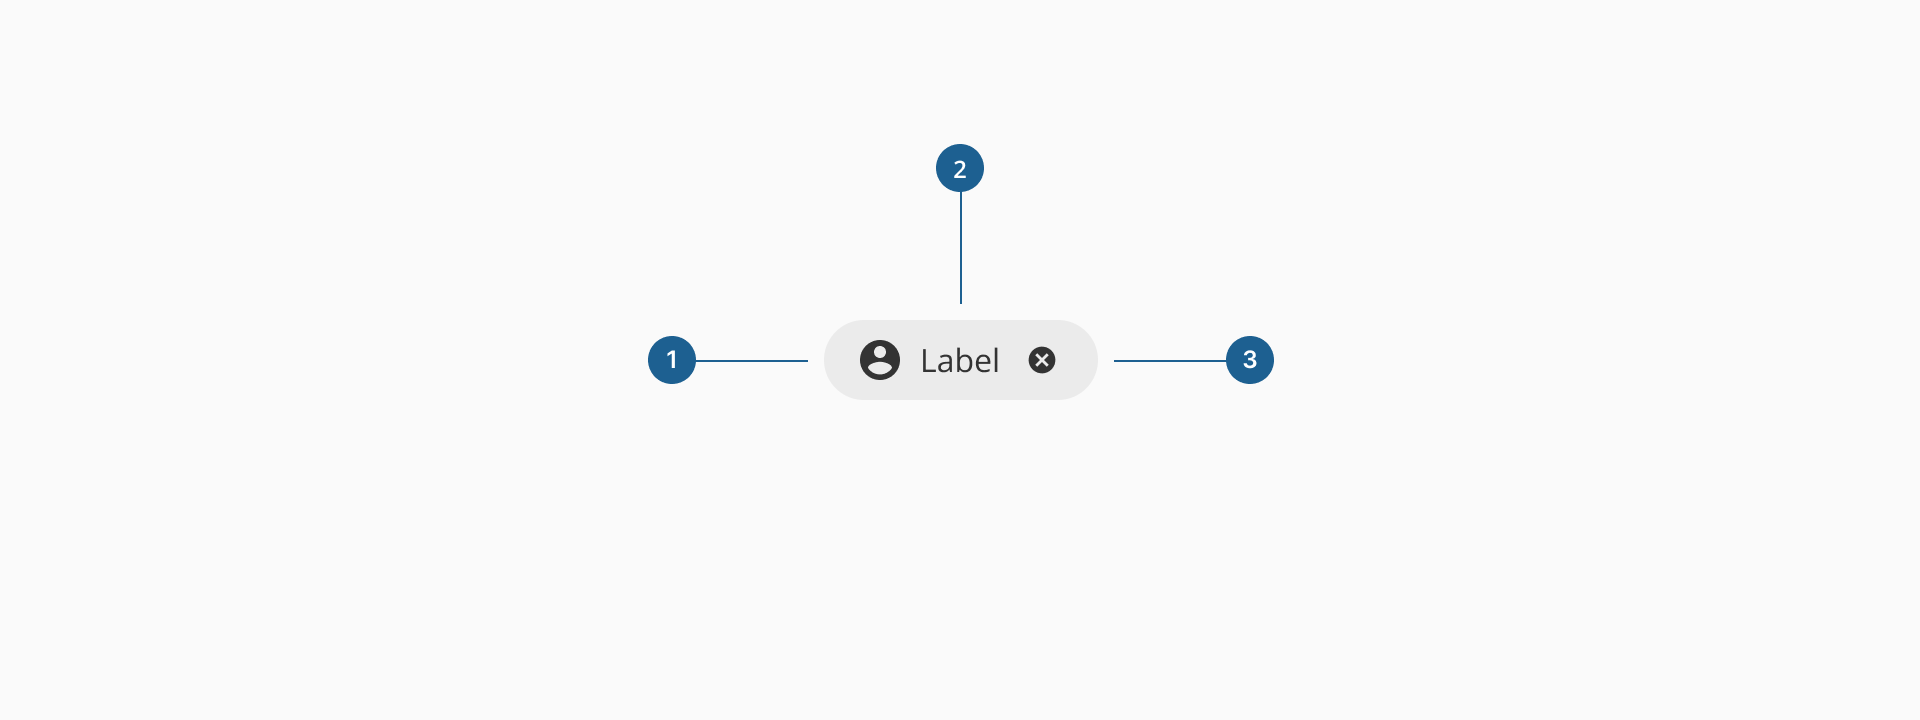
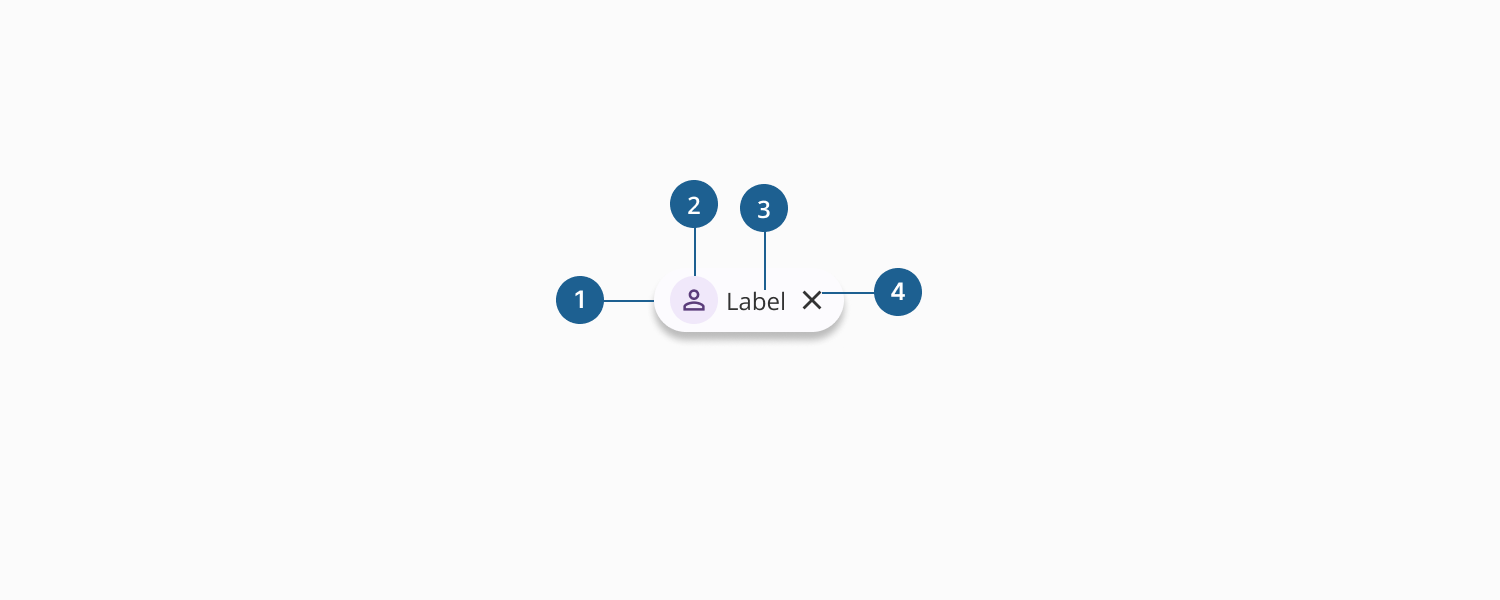
-Update Overview Chip documentation based on Notion file -Update Code Chip documentation

Changed region(s): [[0.3373, 0.45, 0.6747, 0.57], [0.4293, 0.3, 0.552, 0.39], [0.4907, 0.18, 0.5213, 0.27]]

diff --git a/apps/website/screens/components/chip/overview/ChipOverviewPage.tsx b/apps/website/screens/components/chip/overview/ChipOverviewPage.tsx
@@ -2,9 +2,10 @@ import { DxcBulletedList, DxcFlex, DxcLink, DxcParagraph, DxcTable } from "@dxc-
 import QuickNavContainer from "@/common/QuickNavContainer";
 import DocFooter from "@/common/DocFooter";
 import anatomy from "./images/chip-anatomy.png";
-import Example from "@/common/example/Example";
-import categorization from "./examples/categorization";
-import filter from "./examples/filter";
+import categorization from "./images/chip-categorization.png";
+import searchFilter from "./images/chip-faceted-search-filter.png";
+import states from "./images/chip-states.png";
+import sizeVariants from "./images/chip-size.png";
 import spacing from "./images/chip-spacing.png";
 import Image from "@/common/Image";
 import Link from "next/link";
@@ -13,12 +14,18 @@ const sections = [
   {
     title: "Introduction",
     content: (
-      <DxcParagraph>
-        Chips are versatile components that allow users to display and manage information in a compact format. They are
-        commonly used to represent selected options, tags, filters, or interactive elements within an interface. Their
-        lightweight and flexible design makes them ideal for enhancing user experience by enabling quick and organized
-        interactions.
-      </DxcParagraph>
+      <>
+        <DxcParagraph>
+          Chips are versatile UI components used to display and manage information in a compact, scannable format. They
+          commonly represent selected options, tags, filters, or contextual actions within an interface.
+        </DxcParagraph>
+        <DxcParagraph>
+          Chip component supports multiple sizes, optional leading elements (icon or avatar), and an optional action
+          icon, while maintaining a consistent structure and interaction model. Clear states, keyboard accessibility,
+          and controlled label length ensure the component remains lightweight, reusable, and adaptable across products
+          such as filters, forms, and the chatbot experience.
+        </DxcParagraph>
+      </>
     ),
   },
   {
@@ -28,72 +35,20 @@ const sections = [
         <Image src={anatomy} alt="Chip anatomy" />
         <DxcBulletedList type="number">
           <DxcBulletedList.Item>
-            <strong>Container</strong> <em>(Required)</em>:
-            <DxcBulletedList>
-              <DxcBulletedList.Item>The outer wrapper of the chip.</DxcBulletedList.Item>
-              <DxcBulletedList.Item>
-                Defines:
-                <DxcBulletedList>
-                  <DxcBulletedList.Item>Overall size (Small / Medium / Large)</DxcBulletedList.Item>
-                  <DxcBulletedList.Item>
-                    Interactive area (default, focus, hover, active and disabled)
-                  </DxcBulletedList.Item>
-                </DxcBulletedList>
-              </DxcBulletedList.Item>
-              <DxcBulletedList.Item>
-                Acts as the main clickable surface when no action icon is present.
-              </DxcBulletedList.Item>
-            </DxcBulletedList>
+            <strong>Container</strong>: the structural wrapper that holds the chip’s content and defines its visual
+            boundaries and spacing. It establishes the chip’s size and layout while remaining informational only.
           </DxcBulletedList.Item>
           <DxcBulletedList.Item>
-            <strong>Left Element</strong> <em>(Optional)</em>: Supported types:
-            <DxcBulletedList>
-              <DxcBulletedList.Item>
-                <strong>Icon</strong>
-                <DxcBulletedList>
-                  <DxcBulletedList.Item>Allowed in Small, Medium and Large.</DxcBulletedList.Item>
-                  <DxcBulletedList.Item>Used for status, category, or action hint.</DxcBulletedList.Item>
-                </DxcBulletedList>
-              </DxcBulletedList.Item>
-
-              <DxcBulletedList.Item>
-                <strong>Avatar</strong>
-                <DxcBulletedList>
-                  <DxcBulletedList.Item>Allowed only in Medium and Large.</DxcBulletedList.Item>
-                  <DxcBulletedList.Item>Represents people, entities or profiles.</DxcBulletedList.Item>
-                </DxcBulletedList>
-              </DxcBulletedList.Item>
-            </DxcBulletedList>
-            Small size supports icons only to preserve compactness and clarity.
+            <strong>Left Element</strong> <em>(Optional)</em>: a leading visual element that adds contextual meaning to
+            the chip and helps users quickly recognize its purpose.
           </DxcBulletedList.Item>
           <DxcBulletedList.Item>
-            <strong>Label</strong> <em>(Required)</em>
-            <DxcBulletedList>
-              <DxcBulletedList.Item>Text content displayed inside the chip</DxcBulletedList.Item>
-              <DxcBulletedList.Item>
-                Characteristics:
-                <DxcBulletedList>
-                  <DxcBulletedList.Item>Short, concise text</DxcBulletedList.Item>
-                  <DxcBulletedList.Item>Single-line only(no-wrapping)</DxcBulletedList.Item>
-                  <DxcBulletedList.Item>Truncated when exceeding maximum width</DxcBulletedList.Item>
-                  <DxcBulletedList.Item>Tooltip appears on hover/focus when truncated</DxcBulletedList.Item>
-                </DxcBulletedList>
-              </DxcBulletedList.Item>
-              <DxcBulletedList.Item>Serves as the primary identifier of the chip.</DxcBulletedList.Item>
-            </DxcBulletedList>
+            <strong>Label</strong>: the text content inside the chip that identifies and describes the associated item
+            or value.
           </DxcBulletedList.Item>
           <DxcBulletedList.Item>
-            <strong>Action Icon</strong> <em>(Optional) -</em> Appears at the end of the chip. Common usage:
-            <DxcBulletedList>
-              <DxcBulletedList.Item>Remove / clear action (✕)</DxcBulletedList.Item>
-              <DxcBulletedList.Item>Secondary inline action (if applicable)</DxcBulletedList.Item>
-            </DxcBulletedList>
-            Behavior:
-            <DxcBulletedList>
-              <DxcBulletedList.Item>Has its own interaction target</DxcBulletedList.Item>
-              <DxcBulletedList.Item>Does not trigger the main chip action</DxcBulletedList.Item>
-              <DxcBulletedList.Item>Disabled when the chip is disabled</DxcBulletedList.Item>
-            </DxcBulletedList>
+            <strong>Action Icon</strong> <em>(Optional)</em>: a trailing control that enables direct interaction with
+            the chip without affecting the container itself.
           </DxcBulletedList.Item>
         </DxcBulletedList>
       </>
@@ -107,11 +62,17 @@ const sections = [
         content: (
           <>
             <DxcParagraph>
-              Chips are commonly used to organize content by grouping related topics, products, or subjects. They often
-              serve as a summary of the page's content. When using chips for categorization, ensure that they are
-              relevant to the displayed information to maintain clarity and usability.
+              Chips are used to organize and summarize related information such as topics, statuses, or attributes in a
+              compact and scannable way. They help users quickly understand key metadata without overwhelming the
+              interface.
             </DxcParagraph>
-            <Example example={categorization} />
+            <DxcParagraph>
+              With the redesigned Chip component, categorization chips support consistent sizing, optional leading
+              icons, and a clear visual structure while remaining informational and non-interactive. When using chips
+              for categorization, ensure labels are concise and relevant to the displayed content to maintain clarity
+              and usability.
+            </DxcParagraph>
+            <Image src={categorization} alt="Chip categorization" />
           </>
         ),
       },
@@ -120,12 +81,29 @@ const sections = [
         content: (
           <>
             <DxcParagraph>
-              When used alongside the select component, chips serve as effective filter facets, allowing users to refine
-              search results by choosing and removing specific attributes. This combination enables users to include or
-              exclude preferences directly from their queries. For faceted filtering, chips should be dismissible,
-              ensuring effortless adjustments and a more intuitive selection experience.
+              When used alongside selection or filter controls, chips act as filter facets that allow users to review,
+              apply, and remove selected attributes. This enables users to refine results efficiently and maintain
+              visibility of their current selections.
             </DxcParagraph>
-            <Example example={filter} />
+            <DxcParagraph>
+              In the redesigned Chip component, faceted filter chips support dismissal through the action icon, which is
+              the primary interaction point. Clear visual states (hover, focus, active, disabled) help communicate
+              interactivity, while optional leading elements (icons or avatars, depending on size){" "}
+            </DxcParagraph>
+            <Image src={searchFilter} alt="Chip faceted search filters" />
+          </>
+        ),
+      },
+      {
+        title: "Chip states",
+        content: (
+          <>
+            <DxcParagraph>
+              Chip component, states are applied to the action icon only, including default, hover, focus, active, and
+              disabled. The container remains informational, ensuring interactions are clear, intentional, and
+              consistent across use cases.
+            </DxcParagraph>
+            <Image src={states} alt="Chip states" />
           </>
         ),
       },
@@ -169,6 +147,19 @@ const sections = [
                 </tr>
               </tbody>
             </DxcTable>
+          </>
+        ),
+      },
+      {
+        title: "Size variants",
+        content: (
+          <>
+            <DxcParagraph>
+              The Chip component is available in three size variants to support different interface densities and use
+              cases. Each size follows the same structural pattern while adjusting spacing and supported elements to
+              maintain clarity and usability.
+            </DxcParagraph>
+            <Image src={sizeVariants} alt="Chip size variants" />
           </>
         ),
       },

diff --git a/apps/website/screens/components/chip/code/ChipCodePage.tsx b/apps/website/screens/components/chip/code/ChipCodePage.tsx
@@ -1,26 +1,30 @@
-import { DxcFlex, DxcLink, DxcTable } from "@dxc-technology/halstack-react";
+import { DxcFlex, DxcLink, DxcParagraph, DxcTable } from "@dxc-technology/halstack-react";
 import QuickNavContainer from "@/common/QuickNavContainer";
 import DocFooter from "@/common/DocFooter";
 import Example from "@/common/example/Example";
 import basicUsage from "./examples/basicUsage";
 import icons from "./examples/icons";
 import Code, { ExtendedTableCode, TableCode } from "@/common/Code";
+import StatusBadge from "@/common/StatusBadge";
 
-const avatarTypeString = `{
-  color?: 'primary' | 'secondary' | 'tertiary' |
-    'success' | 'info' | 'neutral' | 'warning' | 'error';
-  disabled?: boolean;
-  icon?: string | SVG;
-  imgSrc?: string;
-  label?: string;
-  linkHref?: string;
-  onClick??: () => void;
-  shape?: 'circle' | 'square';
-  size?: 'xsmall' | 'small' | 'medium' |
-    'large' | 'xlarge' | 'xxlarge';
-  tabIndex?: number';
+const actionTypeString = `{
+  icon?: string | (React.ReactNode 
+    & React.SVGProps<SVGSVGElement>); 
+  onClick: () => void; 
   title?: string;
 }`;
+
+const prefixTypeString = `
+| string 
+| SVG
+| {
+    color?: 'primary' | 'secondary' | 'tertiary'
+      | 'success' | 'info' | 'neutral' | 'warning'
+      | 'error';
+    icon?: string | SVG;
+    imgSrc?: string;
+    label?: string;
+  }`;
 
 const sections = [
   {
@@ -37,17 +41,17 @@ const sections = [
         </thead>
         <tbody>
           <tr>
-            <td>avatar</td>
             <td>
-              <ExtendedTableCode>{avatarTypeString}</ExtendedTableCode>
+              <DxcFlex direction="column" gap="var(--spacing-gap-xs)" alignItems="baseline">
+                <StatusBadge status="new" />
+                action
+              </DxcFlex>
             </td>
             <td>
-              Avatar that will be placed before the chip label only when the chip size is <Code>'medium'</Code> or{" "}
-              <Code>'large'</Code>.
+              <ExtendedTableCode>{actionTypeString}</ExtendedTableCode>
             </td>
-            <td>
-              <TableCode>false</TableCode>
-            </td>
+            <td>Action to be displayed on the right side of the chip after the label.</td>
+            <td>-</td>
           </tr>
           <tr>
             <td>disabled</td>
@@ -60,7 +64,12 @@ const sections = [
             </td>
           </tr>
           <tr>
-            <td>label</td>
+            <td>
+              <DxcFlex direction="column" gap="var(--spacing-gap-xs)" alignItems="baseline">
+                <StatusBadge status="required" />
+                label
+              </DxcFlex>
+            </td>
             <td>
               <TableCode>string</TableCode>
             </td>
@@ -79,54 +88,27 @@ const sections = [
             <td>-</td>
           </tr>
           <tr>
-            <td>onClickPrefix</td>
             <td>
-              <TableCode>{"() => void"}</TableCode>
+              <DxcFlex direction="column" gap="var(--spacing-gap-xs)" alignItems="baseline">
+                <StatusBadge status="new" />
+                prefix
+              </DxcFlex>
             </td>
             <td>
-              If defined, the prefix icon will be considered a button element. This function will be called when it is
-              clicked.
-            </td>
-            <td>-</td>
-          </tr>
-          <tr>
-            <td>onClickSuffix</td>
-            <td>
-              <TableCode>{"() => void"}</TableCode>
-            </td>
-            <td>
-              If defined, the suffix icon will be considered a button element. This function will be called when it is
-              clicked.
-            </td>
-            <td>-</td>
-          </tr>
-          <tr>
-            <td>prefixIcon</td>
-            <td>
-              <TableCode>string | {"(React.ReactNode & React.SVGProps <SVGSVGElement>)"}</TableCode>
+              <ExtendedTableCode>{prefixTypeString}</ExtendedTableCode>
             </td>
             <td>
               <DxcLink newWindow href="https://fonts.google.com/icons">
                 Material Symbol
               </DxcLink>{" "}
-              name or SVG element as the icon that will be placed before the chip label when an <Code>avatar</Code> is
-              not provided. When using Material Symbols, replace spaces with underscores. By default they are outlined
-              if you want it to be filled prefix the symbol name with <TableCode>"filled_"</TableCode>.
-            </td>
-            <td>-</td>
-          </tr>
-          <tr>
-            <td>suffixIcon</td>
-            <td>
-              <TableCode>string | {"(React.ReactNode & React.SVGProps <SVGSVGElement>)"}</TableCode>
-            </td>
-            <td>
-              <DxcLink newWindow href="https://fonts.google.com/icons">
-                Material Symbol
-              </DxcLink>{" "}
-              name or SVG element as the icon that will be placed after the chip label. When using Material Symbols,
-              replace spaces with underscores. By default they are outlined if you want it to be filled prefix the
-              symbol name with <TableCode>"filled_"</TableCode>.
+              name or SVG element used as the icon. When using Material Symbols, replace spaces with underscores. By
+              default, symbols are outlined; to use the filled version, prefix the symbol name with{" "}
+              <TableCode>"filled_"</TableCode>.
+              <DxcParagraph>
+                If a string or SVG is provided, it will be rendered as an icon placed before the chip label. If an
+                avatar props object is provided, a DxcAvatar will be displayed to the left of the label, only when the
+                chip size is medium or large.
+              </DxcParagraph>
             </td>
             <td>-</td>
           </tr>
